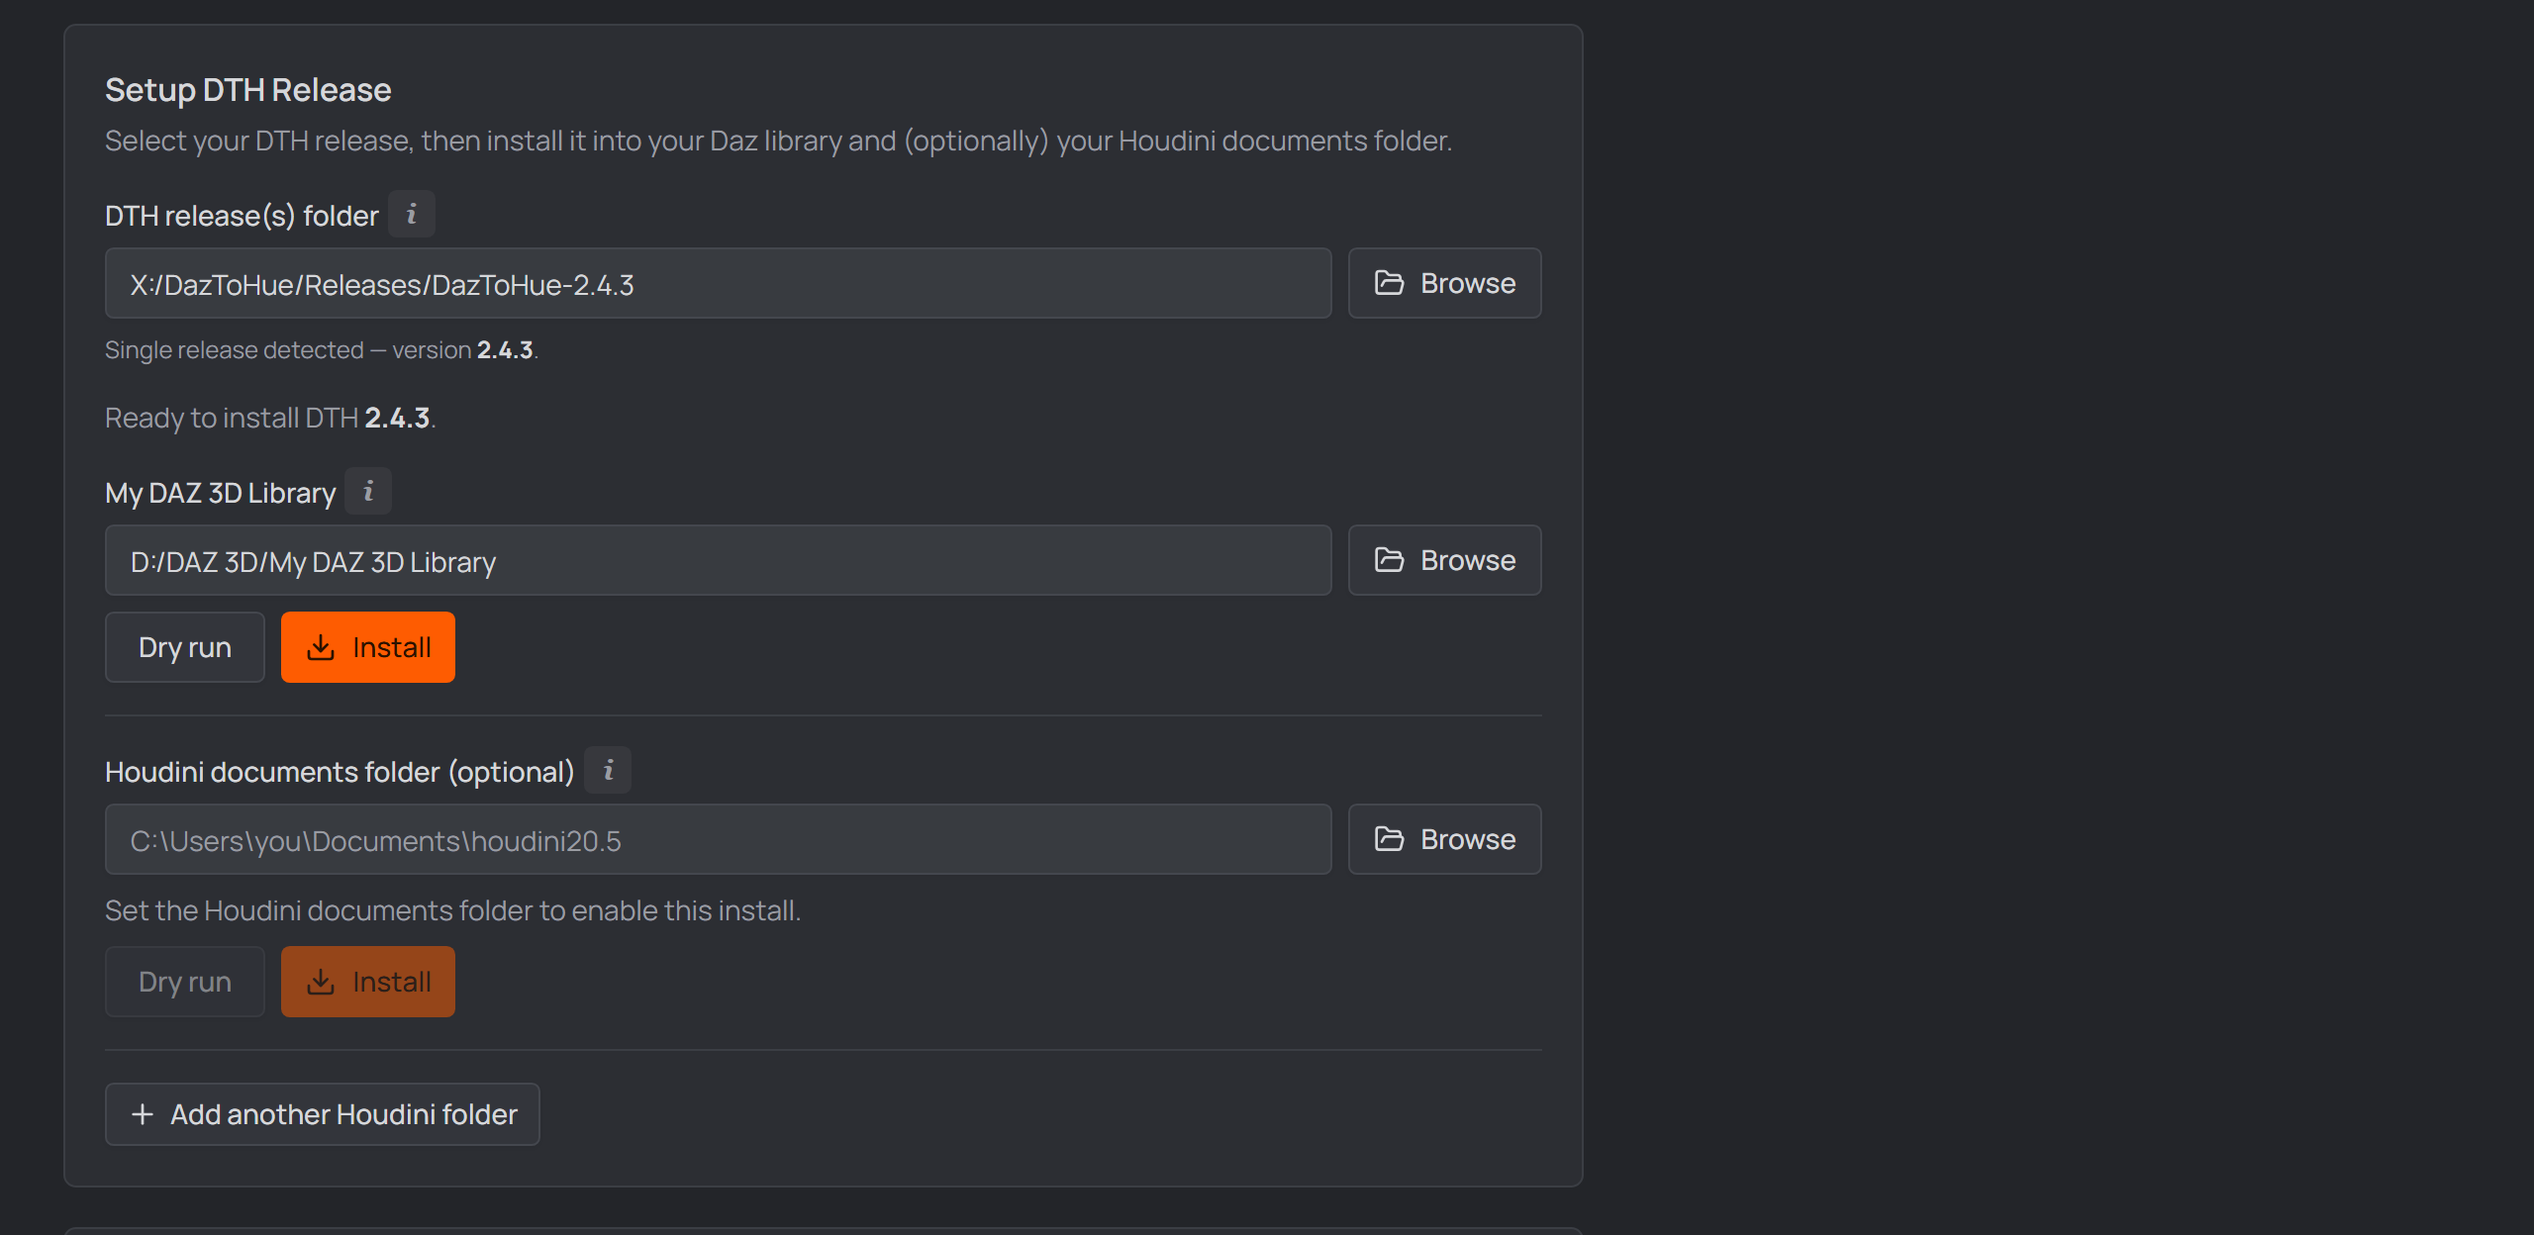
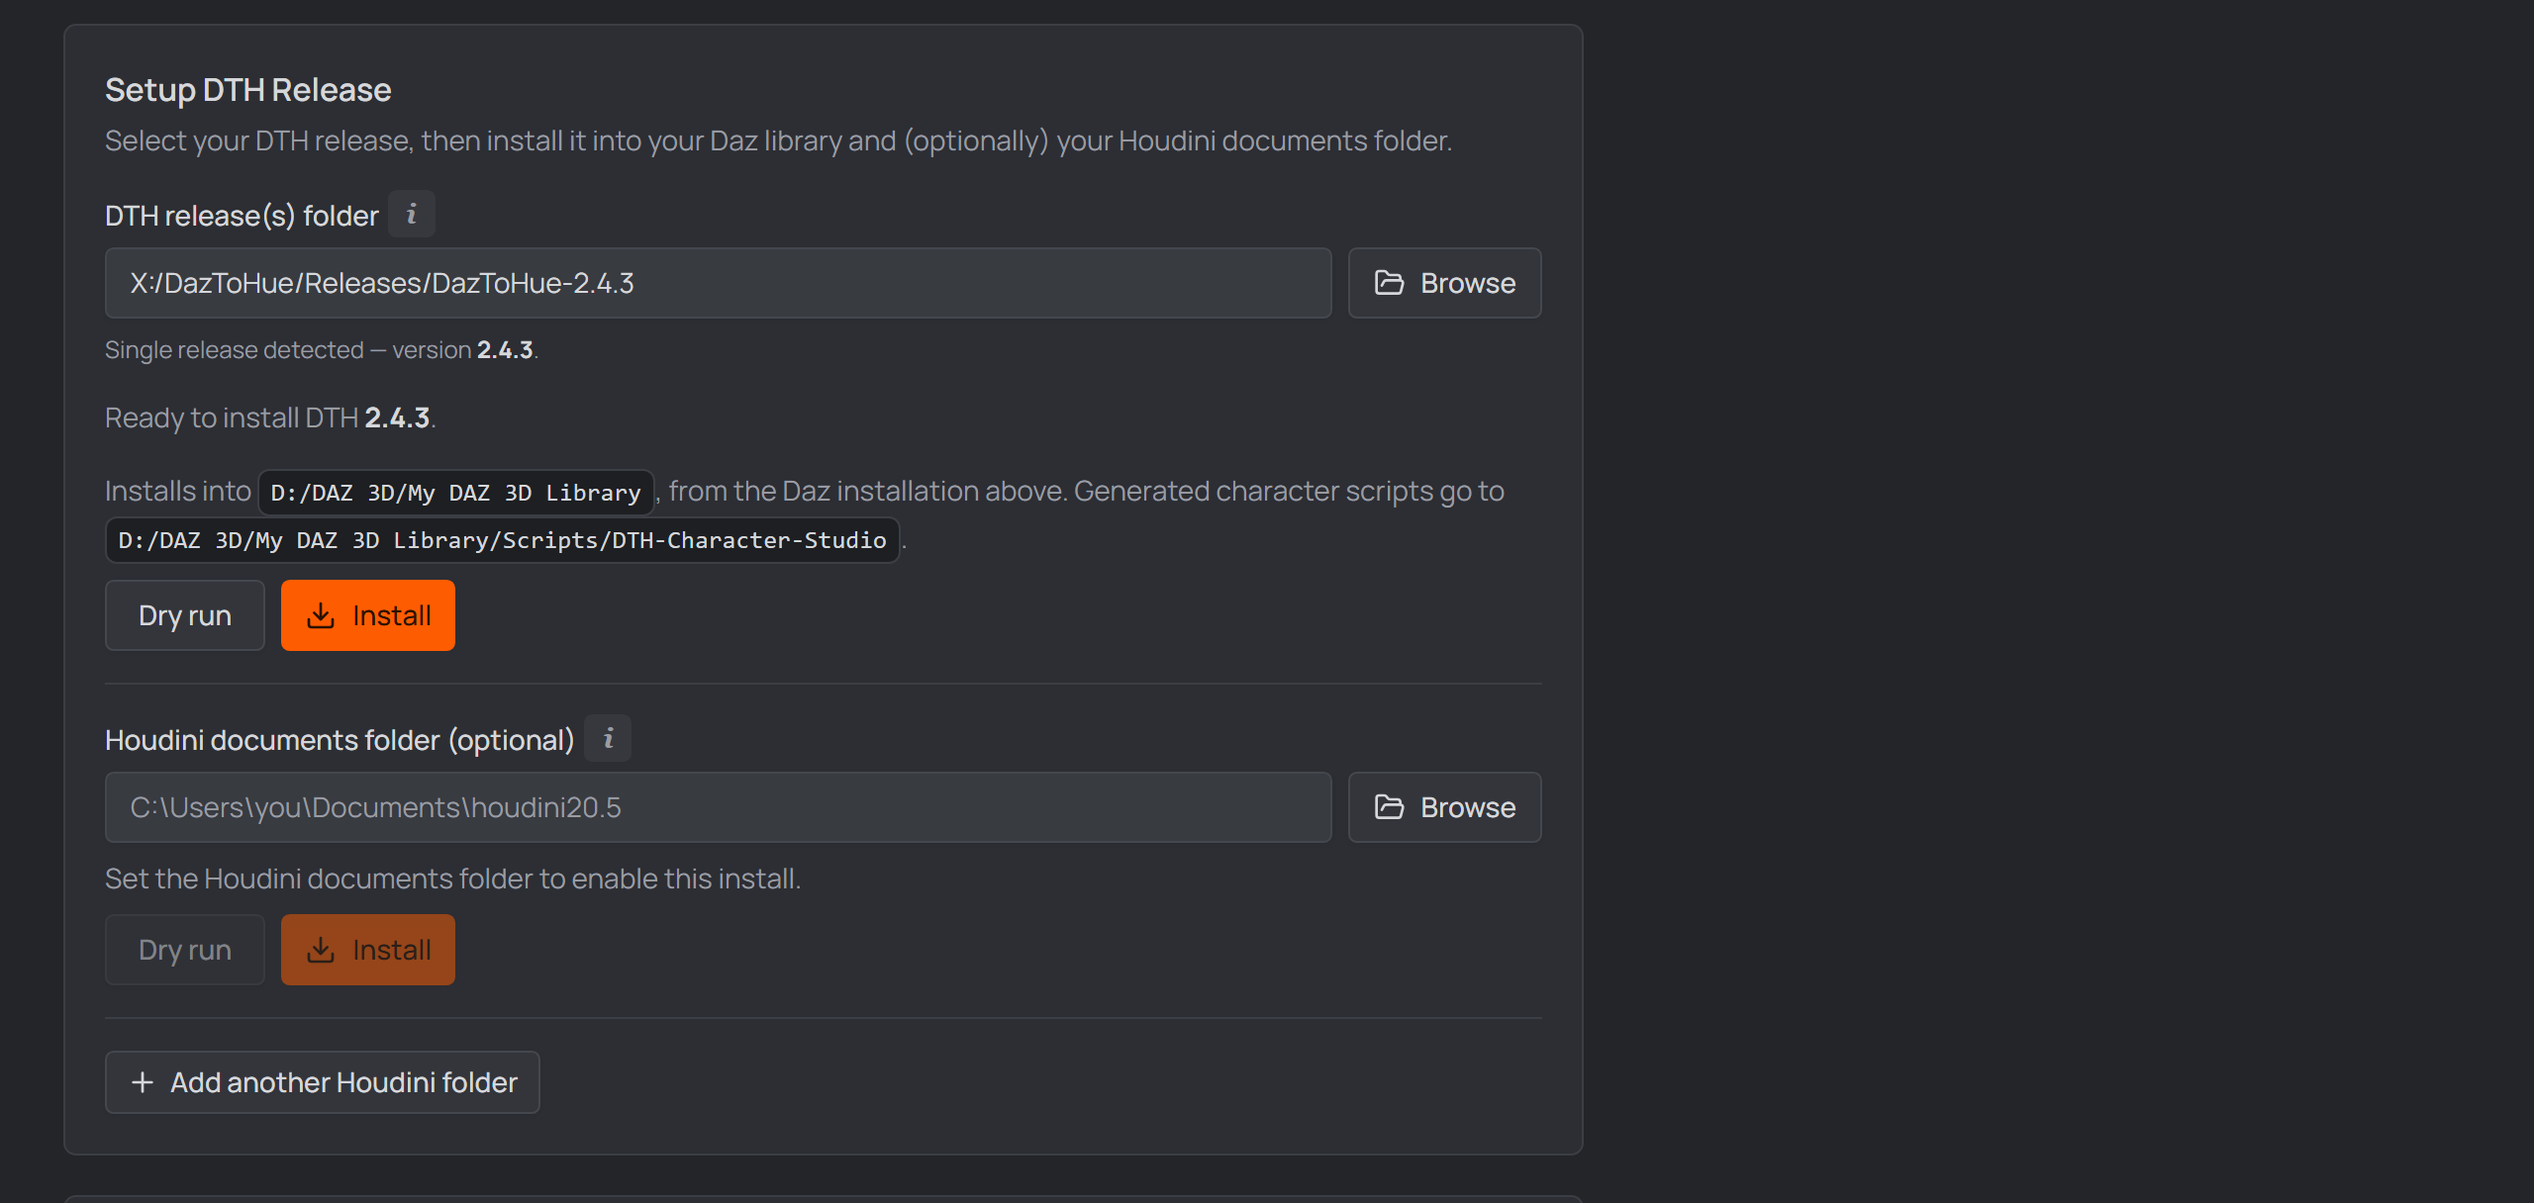
fix(web): stop repeating the derived Daz paths in the install sections
#724 replaced the "My DAZ 3D Library" and "Daz Studio install folder" pickers
with read-only echoes once an installation is activated. That was half a fix:
the Daz installation card above already lists both paths, so the echo showed the
same value twice where it can only ever agree - and left a field-shaped block
where there is no choice left to make. Remo spotted it immediately.

Both sections now render nothing at all when the path is derived. What stays is
the part that genuinely belongs beside a Dry run / Install button: one line
naming where the install will write - "Installs into <path>, from the Daz
installation above" - plus, for the release, where the generated character
scripts land. An empty derived path still warns and points at "Set the paths
manually", because "DIM had nothing for this" and "you haven't set it yet" are
different problems.

DerivedFieldNote stays for the Project tab's DIM manifests row: that tab does
not show the Daz installation card, so a labelled read-only value there is the
only place to read it, not a duplicate.

The guide's `settings-dth-release` screenshot is re-shot with an installation
active - the common case, and now the one step 2 describes.

Verified: the detection smoke spec asserts both fields are ABSENT after
activating (not merely read-only) and that two destination lines appear. 42
smoke specs, 1037 unit tests, typecheck, lint budget, guide build.

Claude-Session: https://claude.ai/code/session_01Fhwa5xWus8FxN9k5Z4c4Ee

diff --git a/apps/web/src/routes/settings.tsx b/apps/web/src/routes/settings.tsx
@@ -817,23 +817,13 @@ function SettingsPage() {
             )}
 
             <div>
-              {/* Derived from the active installation, and shown there — an
-                  editable copy of a derived value is a value that can silently
-                  disagree with what it came from. */}
-              {dazDerived ? (
-                <DerivedFieldNote label="My DAZ 3D Library" value={settings.dazLibraryFolder}>
-                  {settings.dazLibraryFolder && (
-                    <>
-                      {' '}
-                      Generated character scripts install to{' '}
-                      <PathCode
-                        path={displayPath(`${settings.dazLibraryFolder}/Scripts/DTH-Character-Studio`)}
-                      />
-                      .
-                    </>
-                  )}
-                </DerivedFieldNote>
-              ) : (
+              {/* No field at all once an installation is active: the library is
+                  derived, and the Daz installation card above already lists it.
+                  A second copy here is the same path shown twice — it can only
+                  ever agree, and it puts a control where there is no choice to
+                  make. What DOES belong at the moment of installing is the
+                  DESTINATION, which is the line below the buttons' gate. */}
+              {!dazDerived && (
                 <FolderField
                   label="My DAZ 3D Library"
                   value={settings.dazLibraryFolder}
@@ -855,6 +845,19 @@ function SettingsPage() {
                     </>
                   }
                 />
+              )}
+              {dazDerived && (
+                <DerivedTarget
+                  value={settings.dazLibraryFolder}
+                  missing="library"
+                  className={canInstallDaz ? '' : 'mt-2'}
+                >
+                  Generated character scripts go to{' '}
+                  <PathCode
+                    path={displayPath(`${settings.dazLibraryFolder}/Scripts/DTH-Character-Studio`)}
+                  />
+                  .
+                </DerivedTarget>
               )}
               {!canInstallDaz && (
                 <p className="mt-2 text-sm text-muted-foreground">
@@ -1152,15 +1155,14 @@ function SettingsPage() {
               />
             </div>
 
+            {/* Same rule as the library above — the active installation IS the
+                answer to "which Daz Studio", so the field would be a control
+                with nothing to control. The destination shows with the buttons. */}
             {dazDerived ? (
-              <DerivedFieldNote
-                label="Daz Studio install folder"
-                value={settings.dazInstallFolder}
-              >
-                {' '}
+              <DerivedTarget value={settings.dazInstallFolder} missing="Daz Studio install folder">
                 The Exporter Plugin DLLs go into its
                 <span className="font-mono"> /plugins</span> subfolder.
-              </DerivedFieldNote>
+              </DerivedTarget>
             ) : (
               <FolderField
                 label="Daz Studio install folder"
@@ -1548,14 +1550,57 @@ function SettingsPage() {
 }
 
 /**
- * A path that is DERIVED from the active Daz installation, shown where its
- * editable field used to be.
+ * Where an install is about to write, when that destination is DERIVED.
  *
- * Read-only on purpose: the value follows from the card above, and an editable
- * copy is one that can quietly disagree with what produced it. The way to edit
- * it is to stop deriving it — "Set the paths manually", in the section above.
- * An empty one is called out rather than left blank, because "DIM had nothing
- * for this" is a different problem from "you haven't set it yet".
+ * A sentence, not a field, and deliberately not a labelled read-only copy: the
+ * Daz installation card above already lists these paths, so repeating one here
+ * would show the same value twice where it can only ever agree — and put a
+ * control where there is no choice left to make. What genuinely belongs next to
+ * a Dry run / Install button is the destination, so that is all this is.
+ *
+ * An empty value is called out instead, because "DIM had nothing for this" is a
+ * different problem from "you haven't set it yet" and has a different fix.
+ */
+function DerivedTarget({
+  value,
+  missing,
+  className = '',
+  children,
+}: {
+  value: string
+  /** What DIM had no value for, named in the warning. */
+  missing: string
+  className?: string
+  children?: ReactNode
+}) {
+  if (!value) {
+    return (
+      <p className="mt-2 flex items-start gap-1.5 text-sm text-amber-500">
+        <AlertTriangle className="mt-0.5 size-3.5 shrink-0" />
+        <span>
+          The DAZ Install Manager has no {missing} path, so there is nothing to install into. Use{' '}
+          <strong>Set the paths manually</strong> in the Daz installation section to fill it in
+          yourself.
+        </span>
+      </p>
+    )
+  }
+  return (
+    <p className={`text-sm text-muted-foreground ${className}`}>
+      Installs into <PathCode path={displayPath(value)} />, from the Daz installation above.{' '}
+      {children}
+    </p>
+  )
+}
+
+/**
+ * A DERIVED path echoed on another tab, where the Daz installation card is not
+ * on screen to read it from.
+ *
+ * Read-only for the same reason the fields it replaces are gone: an editable
+ * copy of a derived value is one that can quietly disagree with what produced
+ * it. The way to edit it is to stop deriving it — "Set the paths manually", on
+ * the General tab.
  */
 function DerivedFieldNote({
   label,

diff --git a/apps/web/smoke/guide.screenshots.ts b/apps/web/smoke/guide.screenshots.ts
@@ -300,46 +300,55 @@ function projectRow(page: Page, label: string): Locator {
   return page.locator('div.border-t', { hasText: label })
 }
 
-test('settings-daz-install', async ({ page }) => {
-  // A machine with DIM and both Daz Studios — the case the cards exist for.
-  // Seeded as DIM's own INI files (`%APPDATA%/DAZ 3D`), which is what the app
-  // really reads, so the shot can never show a layout the code doesn't produce.
-  const roaming = 'C:/Users/You/AppData/Roaming'
-  const dazAppData = `${roaming}/DAZ 3D`
-  const ds6 = 'C:/Program Files/DAZ 3D/DAZStudio6'
-  const ds4 = 'C:/Program Files/DAZ 3D/DAZStudio4'
-  const library = 'D:/DAZ 3D/My DAZ 3D Library'
-  const manifests = 'D:/DAZ 3D/Install Manager/ManifestFiles'
+/** A machine with DIM and both Daz Studios — the case the cards exist for.
+ *  Seeded as DIM's own INI files (`%APPDATA%/DAZ 3D`), which is what the app
+ *  really reads, so a shot can never show a layout the code doesn't produce. */
+const DIM_ROAMING = 'C:/Users/You/AppData/Roaming'
+const DS6_DIR = 'C:/Program Files/DAZ 3D/DAZStudio6'
+const DS4_DIR = 'C:/Program Files/DAZ 3D/DAZStudio4'
+const DAZ_LIBRARY = 'D:/DAZ 3D/My DAZ 3D Library'
+const DIM_MANIFESTS = 'D:/DAZ 3D/Install Manager/ManifestFiles'
+
+function dimSeed() {
+  const dazAppData = `${DIM_ROAMING}/DAZ 3D`
   const seed = buildSeed()
-  seed.roamingDir = roaming
+  seed.roamingDir = DIM_ROAMING
   seed.files[`${dazAppData}/dzInstall.ini`] =
     `[General]\nInstalledApplications=dzStudio6InstallDir-64 dzStudio4InstallDir-64\n\n` +
-    `[ApplicationPath]\ndzStudio6InstallDir-64=${ds6}\ndzStudio4InstallDir-64=${ds4}\n`
+    `[ApplicationPath]\ndzStudio6InstallDir-64=${DS6_DIR}\ndzStudio4InstallDir-64=${DS4_DIR}\n`
   seed.files[`${dazAppData}/InstallManager/Settings/AppSettings.ini`] =
     '[General]\nCurrentUser=Account\n'
   seed.files[`${dazAppData}/InstallManager/UserAccounts/Account.ini`] =
-    `[General]\nCurInstallPath=${library}\nOverrideManifestDir=${manifests}\n` +
+    `[General]\nCurInstallPath=${DAZ_LIBRARY}\nOverrideManifestDir=${DIM_MANIFESTS}\n` +
     'DownloadPath=D:/DAZ 3D/Install Manager/Downloads\n'
-  seed.files[`${ds6}/DAZStudio.exe`] = 'ds6'
-  seed.files[`${ds4}/DAZStudio.exe`] = 'ds4'
-  seed.files[`${library}/readme.txt`] = 'library'
-  seed.files[`${manifests}/IM00012345_1_Product.dsx`] = '<dsx/>'
-  await prime(page, seed)
+  seed.files[`${DS6_DIR}/DAZStudio.exe`] = 'ds6'
+  seed.files[`${DS4_DIR}/DAZStudio.exe`] = 'ds4'
+  seed.files[`${DAZ_LIBRARY}/readme.txt`] = 'library'
+  seed.files[`${DIM_MANIFESTS}/IM00012345_1_Product.dsx`] = '<dsx/>'
+  return seed
+}
+
+/** Settings → General with DAZ Studio 6 activated — the state the guide's
+ *  setup page describes, and the one most machines land in. */
+async function openDazSettings(page: Page) {
+  await prime(page, dimSeed())
   await page.goto('/')
   await page.getByRole('heading', { name: 'DTH Character Studio' }).waitFor()
   await page.getByRole('link', { name: 'Settings' }).click()
-  // Activated, so the shot documents the state the guide describes: cards on
-  // top, the paths they derive read-only underneath.
   await page.getByRole('button', { name: /DAZ Studio 6/ }).click()
   await page.getByText('Paths from this installation').waitFor()
+}
+
+test('settings-daz-install', async ({ page }) => {
+  await openDazSettings(page)
   await shoot(page, join(OUT, 'settings-daz-install.png'), card(page, 'Daz installation'))
 })
 
 test('settings-dth-release', async ({ page }) => {
-  await prime(page, buildSeed())
-  await page.goto('/')
-  await page.getByRole('heading', { name: 'DTH Character Studio' }).waitFor()
-  await page.getByRole('link', { name: 'Settings' }).click()
+  // Shot with an installation ACTIVE: the library path is derived from it, so
+  // this section carries no path field of its own — which is what the guide's
+  // step 2 now describes.
+  await openDazSettings(page)
   await shoot(page, join(OUT, 'settings-dth-release.png'), card(page, 'Setup DTH Release'))
 })
 

diff --git a/apps/web/smoke/daz-install-detect.smoke.ts b/apps/web/smoke/daz-install-detect.smoke.ts
@@ -115,6 +115,14 @@ test('activating an installation derives the paths and saves them itself', async
   // …and the derived paths are shown read-only, with the manual field gone.
   await expect(page.getByText('Paths from this installation')).toBeVisible()
   await expect(page.getByRole('button', { name: 'Set the paths manually' })).toBeVisible()
+  // Gone from "Setup DTH Release" entirely, not echoed there read-only: the
+  // card above already lists it, and a second copy can only ever agree.
+  await expect(page.getByLabel('My DAZ 3D Library')).toHaveCount(0)
+  await expect(page.getByLabel('Daz Studio install folder')).toHaveCount(0)
+  // Each install still says where it will write — that part does belong beside
+  // its buttons. Two of them: the release into the library, the plugin into the
+  // Daz Studio folder.
+  await expect(page.getByText(/Installs into.*from the Daz installation above/)).toHaveCount(2)
 })
 
 test('activating the other card re-derives from it', async ({ page }) => {

diff --git a/docs/guide/02-setup.md b/docs/guide/02-setup.md
@@ -56,11 +56,13 @@ keeping their current values.
    folder holding several versions; then pick the **active** one in the
    dropdown. A release added later must be selected (and installed) yourself —
    the selection never changes on its own.
-2. **My DAZ 3D Library** — your Daz content library (where Daz Studio loads
-   content from, e.g. `…\Documents\DAZ 3D\Studio\My Library`). Already filled if
-   you activated a Daz installation above. Press **Install** below it to copy
-   the release's Daz content into the library; **Dry run** previews what would
-   be copied.
+2. **Where it installs** — your Daz content library. With an installation
+   activated above there is no field here at all: the line above the buttons
+   names the destination it derives. Press **Install** to copy the release's Daz
+   content into the library; **Dry run** previews what would be copied.
+
+   Without an activated installation this is a **My DAZ 3D Library** field you
+   fill in yourself (e.g. `…\Documents\DAZ 3D\Studio\My Library`).
 3. **Houdini documents folder** *(optional)* — your Houdini user folder
    (e.g. `…\Documents\houdini20.5`). Press its **Install** to merge the
    release's Houdini assets (otls, presets, toolbar) into it. Skip this if
@@ -83,10 +85,10 @@ automatic direct export.
      <sub><em>Point it at the extracted DTH Exporter Plugin download.</em></sub>
    </p>
 
-2. **Daz Studio install folder** — where Daz Studio itself is installed
-   (e.g. `C:\Program Files\DAZ 3D\DAZStudio4`). Already filled if you activated
-   a Daz installation above, and it is the card you activated that decides
-   *which* Daz Studio the plugin installs into.
+2. **Which Daz Studio it installs into** — the card you activated decides, and
+   the line above the buttons names the folder. Without an activated
+   installation, a **Daz Studio install folder** field is there for you to fill
+   in (e.g. `C:\Program Files\DAZ 3D\DAZStudio4`).
 3. Press **Install**. Daz Studio usually sits in an admin-protected folder on
    `C:` — the app tells you when that's the case: close Daz, then reopen
    DTH Character Studio as administrator and install again.

diff --git a/.changeset/derived-paths-no-duplicate-field.md b/.changeset/derived-paths-no-duplicate-field.md
@@ -1,0 +1,18 @@
+---
+'@dth/desktop': patch
+'@dth/web': patch
+'@dth/rom': patch
+'@dth/ui': patch
+---
+
+With a Daz installation activated, **Setup DTH Release** and **Setup DTH
+Exporter Plugin** no longer repeat its paths. The library and Studio folder were
+still echoed there read-only — the same values the Daz installation card already
+lists, shown a second time where they could only ever agree, in the shape of a
+field with nothing left to choose.
+
+Each install now states its destination in one line above its buttons —
+*"Installs into `D:/DAZ 3D/My DAZ 3D Library`, from the Daz installation
+above"* — which is the part that genuinely belongs next to a Dry run / Install.
+Without an activated installation both sections keep the editable fields
+unchanged.
